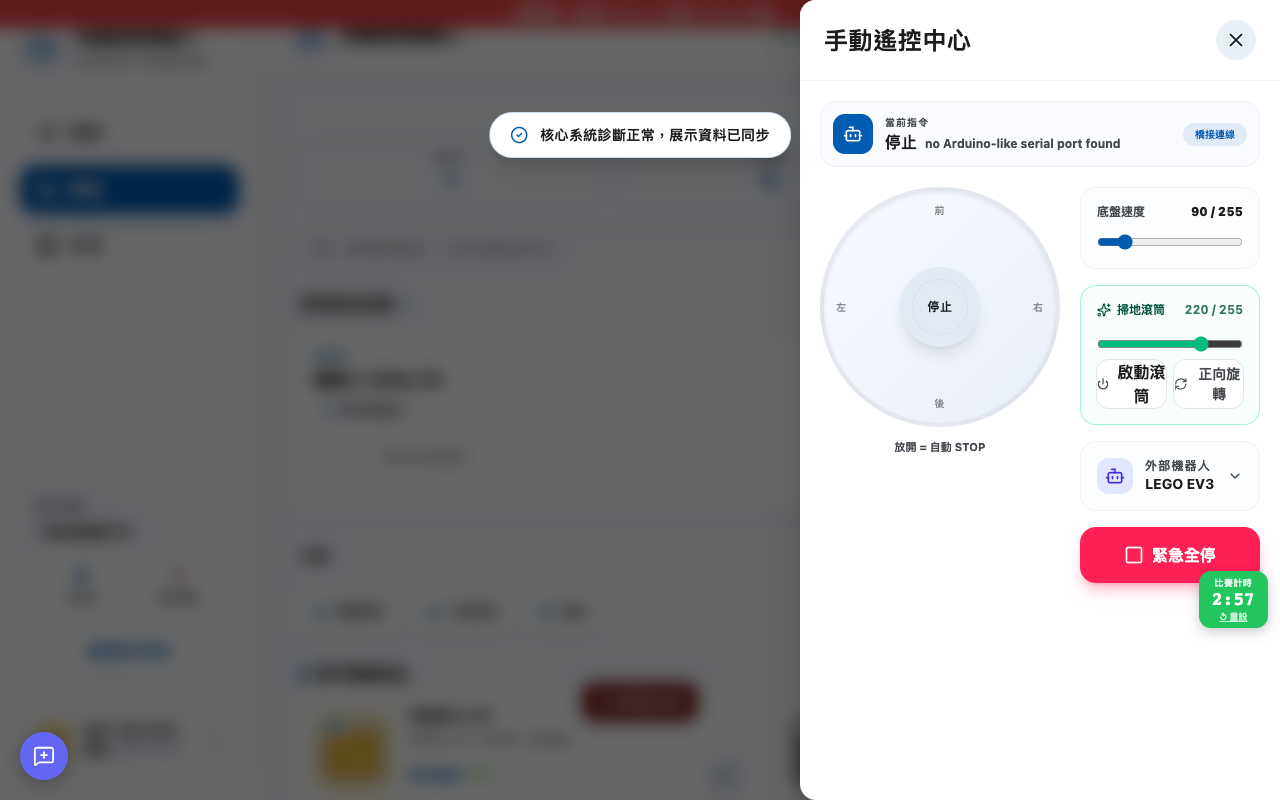
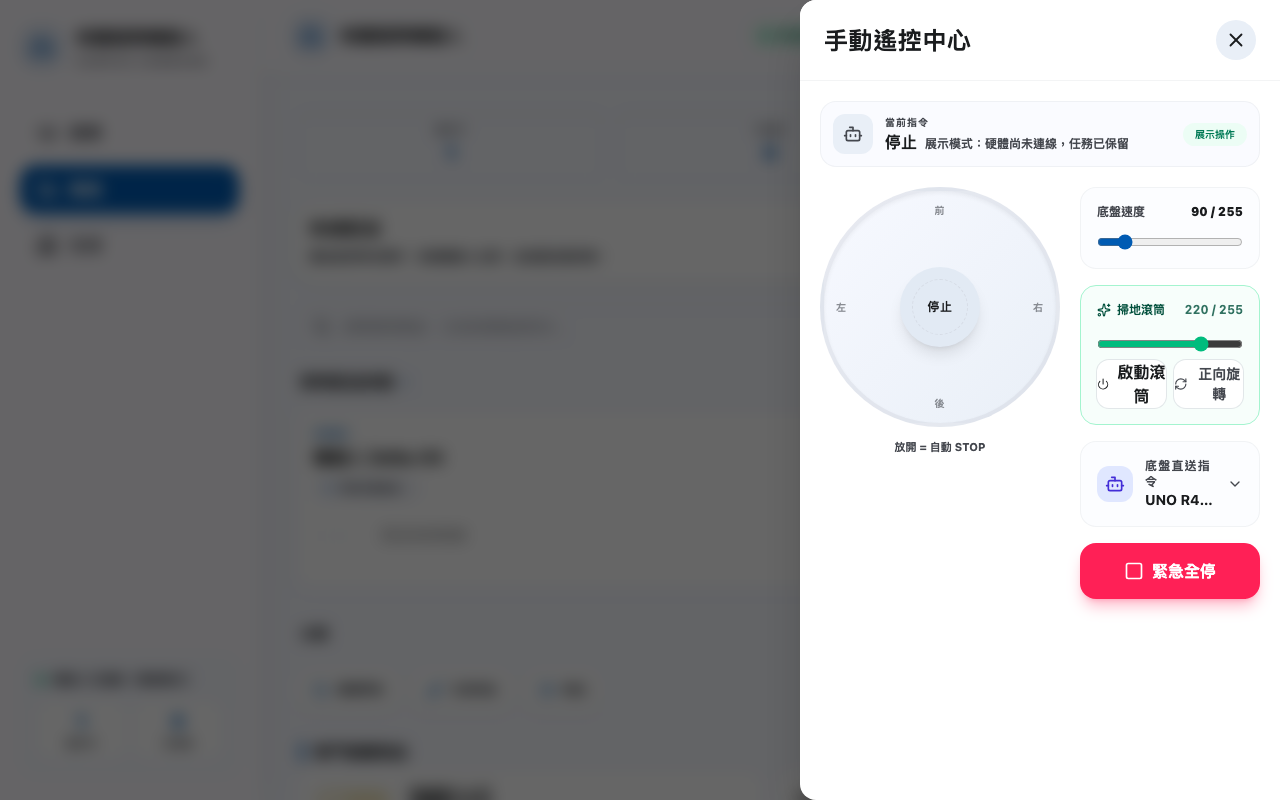
fix(app3-guide): overhaul guide — hardware, screenshots, merge ops content
- Remove opsGuide/manualPdf links (no more separate 操作手冊 page)
- Delete wrong app3 screenshots; placeholder renders via onerror
- Rewrite STUDENT_DEMO_GUIDE.md: add system arch diagram, startup steps,
  iPad connect flow, hardware Q&A — content merged from DEMO_OPERATIONS_GUIDE
- Update all hardware refs to 3D列印 + UNO R4 + L293D + TT馬達 (was EV3)
- Fix hardcoded "EV3/robot" text in build script → uses hardwarePitchNote
- Update app2-step5/6 screenshots (latest captures)

diff --git a/apps/app3-guardian/STUDENT_DEMO_GUIDE.md b/apps/app3-guardian/STUDENT_DEMO_GUIDE.md
@@ -4,75 +4,178 @@
 
 我們這組做的是「匿名、非診斷的 AI 校園指揮中心」。它不是判斷誰有病，而是讓國中組用比較進階的方式展示：多來源訊號融合、區域風險判讀、機器人派遣、學生支持與結案證據，幫老師更早看到需要關心的區域。
 
-## 學生操作入口
+---
 
-- 公開展示網址：`https://timdirty.github.io/115-campus-ai-demo/app3/`
-- 本機開發版：執行 `npm run dev` 後開啟 Vite 顯示的網址。
-- 沒有 Firebase、Gemini 或 Arduino 時也能完整操作，資料會存在瀏覽器本機資料。
-- 第一屏最上方有「學生上台模式」：只保留 **開始示範 / 開圖卡 / 機器人幕 / 重置舞台** 四個大按鈕，旁邊會顯示閉環、橋接、圖卡、感測狀態。
+## 系統架構
+
+```
+電腦（老師/主控）                     iPad / 平板（機器人上）
+┌────────────────────────────┐        ┌───────────────────────┐
+│  瀏覽器 :3000              │        │  robot-display.html   │
+│  主控儀表板（App3）        │        │  AI 心靈守護機器人臉  │
+│           ↕                │        │          ↑             │
+│  Bridge Server :3203       │──WiFi──│  WebSocket /display   │
+│  （橋接 Arduino / iPad）   │        └───────────────────────┘
+│           ↕                │
+│  Arduino UNO R4 WiFi       │
+│    └ L293D 馬達驅動模組    │
+│        └ TT 馬達 × 4      │   ← 3D 列印機身，有硬體才需要
+└────────────────────────────┘
+```
+
+**機器人硬體：** 3D 列印機身 ＋ Arduino UNO R4 WiFi ＋ L293D 馬達驅動模組 ＋ TT 馬達 × 4
+
+**最低需求（無硬體也能完整示範）：**
+- MacBook / Windows 電腦一台
+- Node.js 18+（`node --version` 確認）
+- 現代瀏覽器（Chrome / Edge 建議）
+
+**完整展示（加 iPad 同步）：**
+- 電腦 + iPad 同一 WiFi
+- iPad 開瀏覽器（Safari / Chrome）
+
+---
+
+## 快速啟動（2 分鐘）
+
+### 最簡單：雙擊啟動
+
+在 Finder 直接雙擊 `一鍵啟動展示.command`。它會自動：
+- 找可用的前端 port
+- 啟動 bridge `:3203`
+- 重置舞台到待命狀態
+- 在終端機印出 iPad 第二螢幕網址
+
+展示結束後，回到啟動視窗按 Enter，或雙擊 `一鍵停止展示.command`。
+
+### 手動啟動（若 .command 無法執行）
+
+```bash
+cd "AI校園心靈守護者"
+npm install      # 第一次或 pull 後才需要
+npm run dev      # 同時啟動前端 :3000 + 橋接 :3203
+```
+
+終端機出現：
+```
+[web]    ➜  Local:   http://localhost:3000/
+[bridge] App 3 guardian serial bridge listening on http://localhost:3203
+```
+
+### iPad 機器人顯示連線
+
+1. 電腦和 iPad 連到**同一個** WiFi
+2. 打開主控儀表板 → 機器人 Tab → 找「機器人顯示・ROBOT FACE」卡片
+3. 點「產生 QR 碼」→ iPad 用相機掃碼 → Safari 自動開啟
+4. iPad 出現機器人臉 + 綠色「SYNCED」= 連線成功
+
+手動輸入 URL：`http://[電腦IP]:[前端port]/robot-display.html?bridge=[電腦IP]:3203`
+
+---
 
 ## 上台分工建議
 
-- 第一位同學：用「非診斷、匿名、老師確認」說明問題意識與安全邊界。
-- 第二位同學：按「開始示範」，讓五段閉環從 0/5 跑到 5/5 並建立關懷事件。
-- 第三位同學：打開預警、感知與機器人任務，說明 AI 融合、硬體備援與完成紀錄。
+| 位置 | 同學任務 |
+|---|---|
+| **第一位（說明者）** | 站在旁邊，介紹為什麼校園需要早期關懷、說明「非診斷、匿名、老師確認」原則；說明機器人硬體（3D 列印 + UNO R4 + L293D + TT 馬達） |
+| **第二位（操作者）** | 操作電腦，跑完整 Demo 流程；展示 D-pad 遙控與硬體紀錄；回答 AI 融合與技術問題 |
+
+> 建議練習 3 次，讓第二位同學可以不看講稿流暢操作。
+
+---
+
+## 學生操作入口
+
+- 公開展示網址：`https://timdirty.github.io/115-campus-ai-demo/app3/`
+- 本機開發版：執行 `npm run dev` 後開啟 Vite 顯示的網址
+- 沒有 Firebase、Gemini 或 Arduino 時也能完整操作，資料存在瀏覽器本機
+
+---
 
 ## 第一屏導覽講解稿
 
 大家好，我們是 AI 校園心靈守護者小組。我們的作品不是心理診斷工具，也不收集真實學生個資，而是用匿名資料協助老師更早發現需要關心的情況。
 
-首先在第一屏，只要先看「學生上台模式」這一排大按鈕：開始示範、開圖卡、機器人幕、重置舞台。接著看全校總覽和五段閉環進度。每個區域都有風險、聲量和提醒數，這些資料都是匿名示範訊號，重點是呈現「AI 主動巡查、非診斷、可持續追蹤」。
+首先在第一屏，看「學生上台模式」這一排大按鈕：**開始示範、開圖卡、機器人幕、重置舞台**。接著看全校總覽和五段閉環進度。每個區域都有風險、聲量和提醒數，這些資料都是匿名示範訊號，重點是呈現「AI 主動巡查、非診斷、可持續追蹤」。
 
-第一屏也有五段閉環進度：訊號融合、預警成案、派遣處置、學生支持、回報結案。評審如果時間很短，可以直接按「開始示範」，系統會把五段流程跑完並留下紀錄。
+五段閉環進度：訊號融合 → 預警成案 → 派遣處置 → 學生支持 → 回報結案。評審如果時間很短，可以直接按「**開始示範**」，系統會把五段流程跑完並留下紀錄。
 
 如果某個區域變成中高風險，我們可以直接點選它，指派機器人前往介入。這裡的機器人不是取代老師，而是先做柔和提示、引導或通知，接著由老師低壓確認。
 
-接著打開預警抽屜。我們選一筆提醒，勾選處置清單，例如「導師已確認」、「安排關懷談話」或「轉介輔導室」。按下佈署關懷後，系統會新增支持方案，也會留下硬體提示紀錄。
+接著打開預警抽屜。選一筆提醒，勾選處置清單，例如「導師已確認」、「安排關懷談話」或「轉介輔導室」。按下佈署關懷後，系統會新增支持方案，也會留下硬體提示紀錄。
 
 再打開感知抽屜。系統可以用本機麥克風只計算音量和波動，不保存錄音，也不轉文字。AI 會融合心情簽到、聲量、節點和提醒，主動判斷是否需要老師觀察。
 
-感知抽屜也有三張 GPT image 2 生成的「台灣國中校園寫實圖卡」：穿堂下課關懷、閱讀角考前壓力、操場邊緣退縮。這些圖卡可以逐張下載，也可以用工具選單或感知 Tab 的「列印版」開啟整組 A4 列印頁；如果舞台光線或權限不穩，直接按「判讀＋派遣」，系統會建立影像提醒、補上聲量證據、派機器人，並同步到 `robot_app3.jsx` 第二螢幕。
+最後打開照護與機器人抽屜。學生支持會留下心情簽到、匿名心情牆與安全空間聊天；機器人抽屜會看到任務進度、D-pad 底盤控制、節點狀態、硬體提示與結案紀錄，證明整個流程有留下可追蹤證據。
 
-最後打開照護與機器人抽屜。學生支持會留下心情簽到、匿名心情牆與安全空間聊天；機器人抽屜會看到任務進度、底盤控制、節點狀態、硬體提示與結案紀錄，證明整個流程有留下可追蹤證據。
+---
 
-## 操作步驟卡（底部 4 個 Tab：預警 / 感知 / 照護 / 機器人）
+## 操作步驟（完整版）
 
-1. 最簡單是雙擊 `一鍵啟動展示.command`；如果已經有人開好主控台，就直接看第一屏「學生上台模式」四個大按鈕。
-2. 按 **重置舞台**，讓主控台、任務、圖卡判讀與第二螢幕都回到待命狀態。
-3. 按 **開始示範**，讓系統從 `0/5` 跑到 `5/5`：「訊號融合 → 預警 → 感知 → 派遣 → 支持 → 結案」。
-4. 點 **預警** Tab → 選一筆提醒，勾選處置清單，按「佈署關懷」或「完成閉環」。
-5. 點 **感知** Tab → 按「示範」或啟用麥克風，看聲量趨勢圖；也可按「列印版」印整組圖卡，再按「判讀＋派遣」直接跑影像辨識閉環。
-6. 點 **照護** Tab → 展示心情簽到、情緒字體、心靈森林與安全聊天。
-7. 點 **機器人** Tab → 確認任務進度、底盤控制、節點狀態、硬體提示紀錄與支援方案。
-8. 最後展示「工具」裡的匯出/匯入，或按 **重置舞台** 回到下一輪 demo。
+### 開場前確認
 
-## 影像圖卡閉環操作
+```
+□ npm run dev 已啟動，瀏覽器開著
+□ 若有 iPad：掃碼連線確認 SYNCED
+□ 點第一屏「重置舞台」清空，從乾淨狀態開始
+```
 
-1. 到 **感知** Tab 的「列印辨識圖卡」區。
-2. 按「列印版」開啟 `demo-scenes/guardian-printable-scene-cards.html`，或下載任一張圖卡：`穿堂下課關懷`、`閱讀角考前壓力`、`操場邊緣退縮`。
-3. 舞台上可以把圖卡對準攝影機按「擷取判讀」；若攝影機不穩，直接按圖卡上的 **判讀＋派遣**。
-4. 主控台會立刻建立影像場域提醒、寫入聲量證據、更新區域風險、派遣機器人。
-5. 第二螢幕可從「學生上台模式」按 **機器人幕**，或使用啟動視窗印出的 iPad 網址；網址中的 `bridge` 會覆蓋 iPad 舊設定，避免吃到上次場地的橋接位置。畫面會看到收到任務、目的地與狀態，機器人頁的任務掃描也會回報主控台形成新提醒。
+### 步驟 1：校園地圖 + 機器人派遣（60 秒）
 
-## 目前已完成狀態
+```
+① 點校園地圖上的高風險區（穿堂、閱讀角或操場邊）
+② 側邊卡片出現：點「派遣機器人」
+③ 機器人動畫 + Toast「機器人派遣中…」
+④ 若有 iPad：觀察機器人臉部切換到「專注」表情
+```
 
-- 亮色產品級校園空間指揮中心：已完成。
-- AI 主動巡查、最高風險區與機器人派遣：已完成。
-- 匿名展示資料與瀏覽器本機保存：已完成。
-- 預警處理、處置清單、佈署關懷：已完成。
-- 自我照護、心情簽到、匿名心情牆：已完成。
-- 支持聊天、本機 AI 回覆：已完成。
-- 節點監控、重新連線、硬體提示紀錄：已完成。
-- 隱私模式、匯出、匯入、重置、壞資料恢復：已完成。
-- 五段閉環進度與一鍵開始示範：已完成，從 0/5 到 5/5 會留下預警、感知、派遣、照護、結案證據。
-- 學生上台防呆列：已完成，第一屏只用四個大按鈕完成開始示範、開圖卡、開機器人幕與重置舞台。
-- 一鍵啟動/停止：已完成，雙擊 `.command` 即可開前端、bridge、重置舞台並列出 iPad 網址；結束後可一鍵關閉。
-- Arduino 橋接指令流程：已完成到 App、橋接服務與紀錄；實體燈號或提示器下一階段校準。
-- 巡邏底盤控制收進機器人抽屜：D-pad 手動控制前後左右、速度預設與一鍵緊急停車；放開搖桿自動停車、韌體看門狗 3 秒保護，主畫面不再過度複雜。
-- 校園聲量趨勢圖：麥克風啟用後每 10 秒採樣，最多保留 30 分鐘（180 筆）；SVG 折線圖即時更新並顯示趨勢箭頭（↑ 上升 / → 穩定 / ↓ 下降）；按「示範」可注入展示趨勢；資料存於 localStorage，不保存錄音、不上傳雲端。
-- GPT image 2 可列印圖卡：已完成三張台灣國中寫實場景，放在 `public/demo-scenes/`；感知 Tab 可逐張下載、開整組列印版，也可一鍵建立影像提醒並派遣機器人。
-- `robot_app3.jsx` 第二螢幕同步：已接收主控台 `robot_assignment`，顯示任務場域、狀態與風險；機器人任務掃描可回報 `robot_emotion_event` 給主控台。
-- 重置舞台閉環：已清空自動示範計時、機器人路線、影像判讀鎖、橋接任務與第二螢幕狀態，下一位學生可以直接重跑。
+### 步驟 2：預警處理（60 秒）
+
+```
+① 點底部「預警」Tab
+② 點一筆「AI 主動巡查」提醒，展開細節
+③ 勾選「導師已確認」→「安排關懷談話」
+④ 點「佈署關懷」→ 建立支持方案
+⑤ 系統顯示「硬體提示：CARE_DEPLOYED」
+```
+
+### 步驟 3：感知中心（45 秒）
+
+```
+① 點底部「感知」Tab
+② 指出「AI 融合分析」4 條訊號（心情/聲量/節點/提醒）
+③ 點「示範高聲量」→ 折線圖出現上升趨勢
+④ 說明麥克風只計算音量、不保存錄音、不上傳雲端
+⑤ 點「由多來源訊號建立提醒」→ 新增一筆預警
+```
+
+### 步驟 4：照護功能（60 秒）
+
+```
+① 點底部「照護」Tab
+② 點「有點擔心」做心情簽到 → Toast 確認
+③ 在心靈森林輸入一則貼文，點「發布」
+④ 在聊天框輸入「我今天有點緊張」→ AI 回覆
+```
+
+### 步驟 5：機器人 + 紀錄（45 秒）
+
+```
+① 點底部「機器人」Tab
+② 點「CARE_DEPLOYED 部署關懷」快速指令
+③ 展開底部遙控列 → D-pad 測試前後左右
+④ 說明：韌體看門狗 3 秒保護，放開自動停車
+⑤ 下滑到「硬體提示紀錄」→ 展示操作留存證據
+```
+
+### 結尾（15 秒）
+
+```
+點右上角「匯出」→ 下載 JSON 檔
+說：「整個流程都有可追蹤的記錄，可以匯出給輔導老師參考。」
+```
+
+---
 
 ## 評審可能會問
 
@@ -80,26 +183,79 @@
 
 不是。我們只做關懷提醒和支持建議，不做醫療或心理診斷，也不使用真實學生姓名。
 
+### 機器人是怎麼做的？
+
+機身用 3D 列印製作，控制核心是 Arduino UNO R4 WiFi，馬達驅動採用 L293D 馬達驅動模組，帶動四個 TT 馬達。App 透過 bridge 伺服器把指令（FORWARD / BACKWARD / LEFT / RIGHT / STOP）傳給 Arduino 韌體，韌體再控制 L293D 輸出給馬達。
+
+### 底部遙控列是什麼？
+
+巡邏底盤的手動控制入口，常駐可收折。D-pad 控制前後左右，速度可調；韌體看門狗 3 秒保護，放開按鍵自動停車。收折後只顯示連線狀態與緊急停止按鈕，不佔主畫面空間。
+
 ### 為什麼要匿名？
 
 因為心理與情緒資料很敏感。展示時用匿名代號，正式使用也應該先保護隱私，再讓老師或輔導室提供支持。
 
 ### 沒有 Firebase、Gemini 或 Arduino 可以展示嗎？
 
-可以。系統目前是 local-first，沒有雲端也能完整操作；沒有 Arduino 時會保留硬體提示紀錄，接上 UNO R4 後同一操作會送到實體提示裝置。
-
-### 機器人出現會不會標籤化學生？
-
-機器人是輔助老師「去關心」，不是去「標記誰有問題」。它會在高風險空間附近做柔和音效或燈號提示，不會貼近特定學生、不會廣播姓名，也不會顯示任何個人資訊。老師看到提示後再用低壓方式確認，決定權永遠在人，不在機器。
+可以。系統目前是 local-first，沒有雲端也能完整操作；沒有 Arduino 時會保留硬體提示紀錄，接上 UNO R4 後同一操作會送到實體機器人。
 
 ### 你們的 AI 只是 if-else 規則，還是真的在做 AI？
 
-我們有三層真正的 AI 融合：① `proactiveGuardian.ts` 把心情簽到分佈、聲量指數、節點狀態、未解提醒四個訊號加權合成一個風險分數，不是單一規則；② `acousticGuardian.ts` 即時分析麥克風波形算音量指數與波動性，而不是只判斷大小聲；③ `localGuardianAi.ts` / Gemini API 根據提醒上下文生成個人化支持建議。這三層結合才觸發派遣決策，比單純 if-else 複雜很多。
+我們有三層真正的 AI 融合：① `proactiveGuardian.ts` 把心情簽到分佈、聲量指數、節點狀態、未解提醒四個訊號加權合成一個風險分數；② `acousticGuardian.ts` 即時分析麥克風波形算音量指數與波動性；③ `localGuardianAi.ts` / Gemini API 根據提醒上下文生成個人化支持建議。這三層結合才觸發派遣決策，比單純 if-else 複雜很多。
 
-## 後續機器人連動計畫
+### 聲量偵測會不會侵犯隱私？
 
-1. 將 `ALERT_SIGNAL` 對應到柔和 LED 提醒，避免造成學生壓力。
-2. 將 `CARE_DEPLOYED` 對應到關懷已佈署的提示圖示。
-3. 將 `NODE_RESTART` 對應到節點重新連線燈號。
-4. 保留 `NODE_HEARTBEAT` 給未來節點定期回報。
-5. `robot_app3.jsx` 已可當第二螢幕接收派遣任務；正式硬體端仍堅持不顯示真實學生姓名或敏感內容。
+不會。瀏覽器麥克風只做本機即時運算，計算音量指標與波動；不保存原始錄音、不轉文字、不上傳雲端。運算後的匿名訊號才寫入 localStorage，整個聲量功能需要學生主動開啟。
+
+---
+
+## 疑難排解
+
+| 問題 | 解法 |
+|---|---|
+| 橋接伺服器連不上 | `lsof -i :3203` 確認；重啟 `npm run dev` |
+| iPad 無法連線 | 確認同一 WiFi；macOS 防火牆允許傳入連線；手動輸入 URL |
+| 感知 Tab 出現「趨勢資料收集中」 | 麥克風尚未採樣，按「示範高聲量」注入示範數據（正常現象） |
+| 資料異常 / 想重置 | 點右上角「重置」圖示 → 確認清除 → 恢復初始示範資料 |
+| 瀏覽器 localStorage 損毀 | 瀏覽器 Console：`localStorage.removeItem('guardian-state:v3'); location.reload()` |
+| 機器人不動 | 確認 UNO R4 已接電、在同一 WiFi；Arduino 串口連線正常；橋接確認 `arduinoConnected: true` |
+
+---
+
+## iPad 機器人情緒對應表
+
+| App3 狀態 | 機器人情緒 | 臉部表情 |
+|---|---|---|
+| 機器人派遣中 | 專注 (focused) | 瞇眼聚焦 |
+| 最新心情：開心 | 愉悅 (happy) | 彎眉微笑 + 紅暈 |
+| 最新心情：還可以 | 平靜 (calm) | 柔和橢圓眼 |
+| 最新心情：有點累 | 低落 (sad) | 下垂眉 |
+| 有點擔心 + 高風險 | 緊張 (stressed) | 皺眉圓眼 |
+| 有點擔心 + 中低風險 | 焦慮 (anxious) | 擔憂眉 |
+
+---
+
+## 硬體指令速查
+
+| 指令 | 說明 |
+|---|---|
+| `FORWARD` | 前進 |
+| `BACKWARD` | 後退 |
+| `LEFT` | 左轉 |
+| `RIGHT` | 右轉 |
+| `STOP` | 停止 |
+| `PATROL_START` | 開始巡邏 |
+| `SPEED:<0-255>` | 設定速度 |
+| `ALERT_SIGNAL` | 警示訊號（LED 閃爍） |
+| `CARE_DEPLOYED` | 關懷已佈署提示 |
+| `NODE_RESTART` | 節點重新連線 |
+| `HEARTBEAT` | 看門狗心跳（每 3 秒） |
+
+---
+
+## 公開展示網址
+
+- **App：** `https://timdirty.github.io/115-campus-ai-demo/app3/`
+- **教學：** `https://timdirty.github.io/115-campus-ai-demo/app3-guide.html`
+
+公開網址只展示畫面與教學；真 Arduino / robot 控制走本機或 LAN bridge。現場沒有硬體時使用模擬模式，接上實機後沿用同一套任務與指令紀錄。
